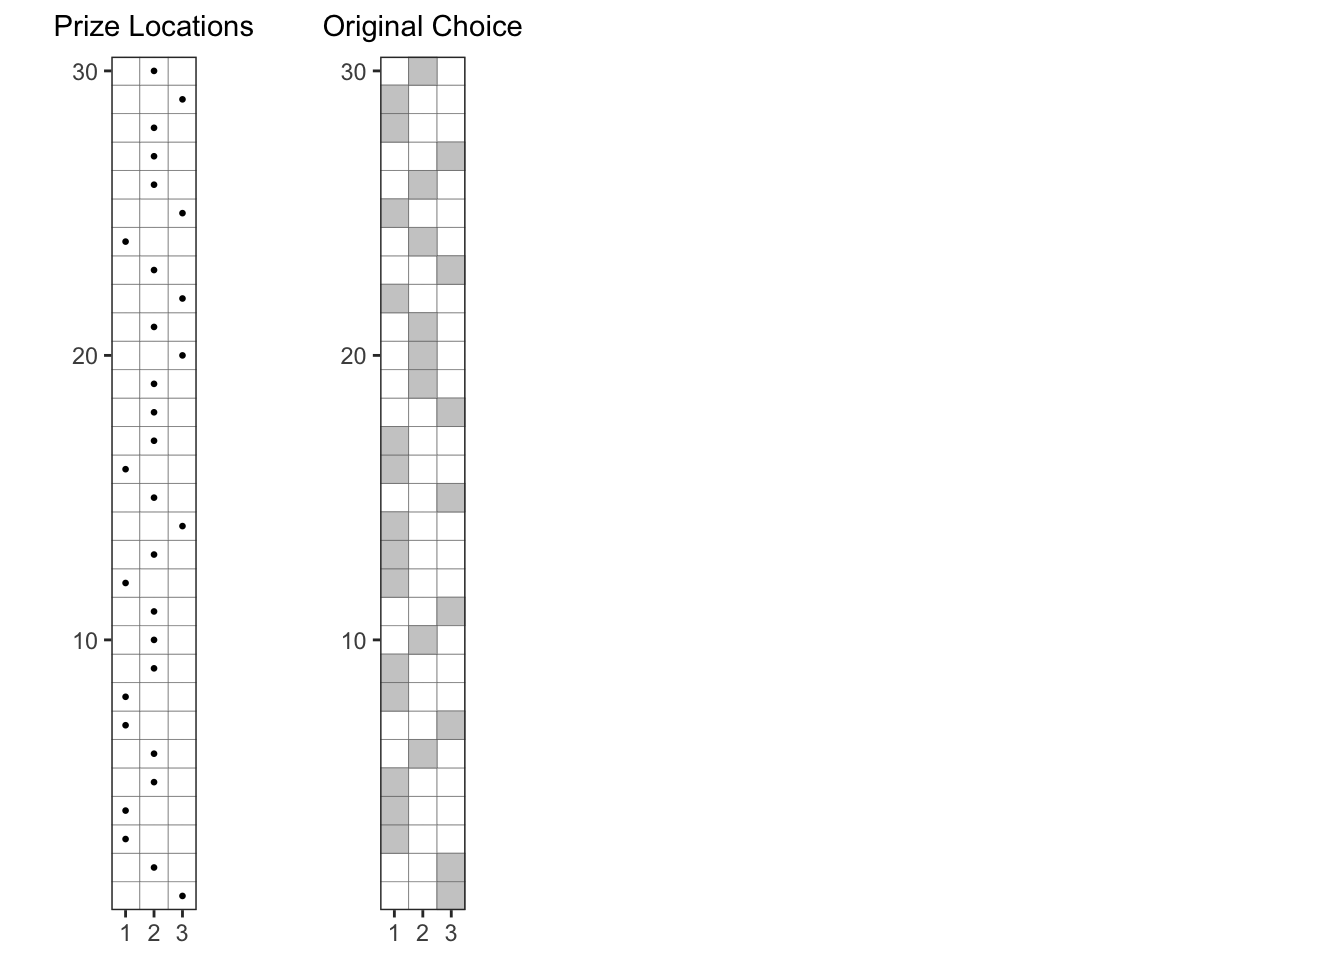
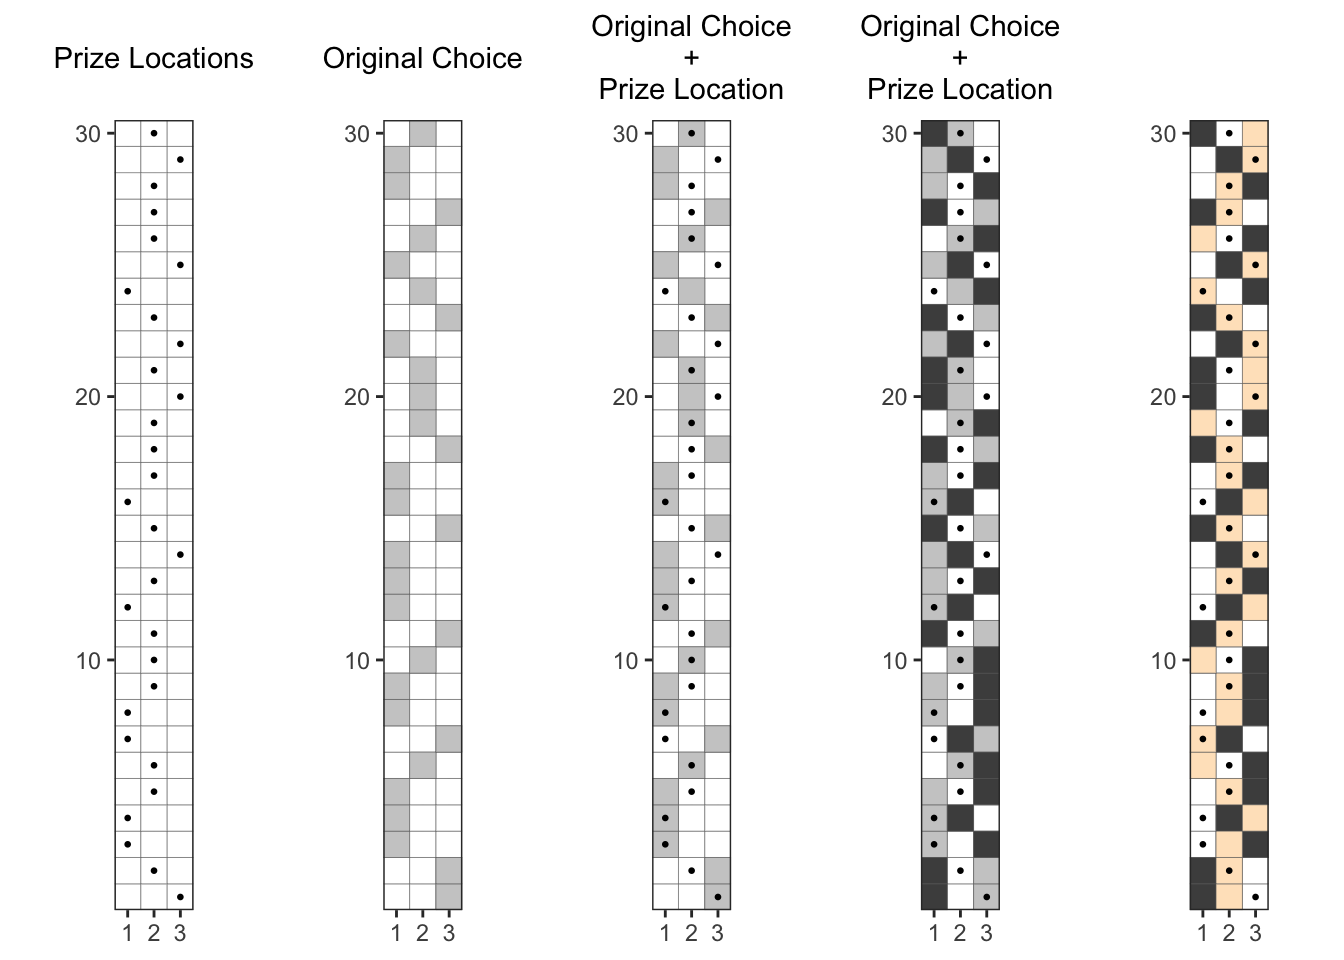
updating the monty-hall post

diff --git a/content/post/2018-11-18-monty-hall-problem.html b/content/post/2018-11-18-monty-hall-problem.html
@@ -24,7 +24,9 @@ math: TRUE
 </div>
 <div id="solution" class="section level3">
 <h3>Solution:</h3>
-<p>Apparently an overwhelming majority of the people think that it doesn’t matter whether you stick to your original choice or change your choice to the remaining door, as both of them are expected to have 33% chance of success originally, or 50% chance of success after you eliminate a door with the goat. But, let us try to arrive at the answer in a more careful way.</p>
+<p>Apparently an overwhelming majority of the people think that it doesn’t matter whether you stick to your original choice or change your choice to the remaining door, as both of them are expected to have 33% chance of success originally, or 50% chance of success after you eliminate a door that doesn’t contain the prize. But, let us try to arrive at the answer in a more careful way.</p>
+<p>We start with a frequentist approach where we repeat the experiment 30 times, and see how many successes we have with each approach.</p>
+<p>We use <code>R programming language</code> to simulate the experiment 30 times, and we use the plots to understand the results. You can <code>see the code by clicking on the code button</code> below.</p>
 <pre class="r"><code>set.seed(2020)
 
 # number of runs
@@ -55,6 +57,9 @@ df_experiment_runs$`Alternate Choice` &lt;- apply(
 
 df_experiment_runs_long &lt;- pivot_longer(df_experiment_runs, cols = starts_with(&quot;Door&quot;), names_to = &quot;Door&quot;)
 df_experiment_runs_long$Door &lt;- gsub(&#39;Door&#39;, &#39;&#39;, df_experiment_runs_long$Door)</code></pre>
+<div id="prize-locations-chosen-at-random" class="section level4">
+<h4>1. Prize locations chosen at random:</h4>
+<p>First, let us denote the Prize Locations in each of the 30 runs by a <strong>dot (.)</strong>, which is chosen randomly among the 3 doors.</p>
 <pre class="r"><code>p0 &lt;- ggplot(df_experiment_runs_long, aes(y = `Run Number`, x = Door)) + 
       geom_tile(fill = &#39;white&#39;, color = &#39;gray40&#39;) + 
       scale_y_continuous(expand = expansion(0,0)) + 
@@ -68,42 +73,54 @@ df_experiment_runs_long$Door &lt;- gsub(&#39;Door&#39;, &#39;&#39;, df_experimen
 p1 &lt;- p0 + geom_point(data = df_experiment_runs, aes(x = `Prize Location`), size = 0.5) + 
         labs(subtitle = &#39;Prize Locations&#39;)
 
-p2 &lt;- p0 + geom_tile(data = df_experiment_runs, aes(x = `First Choice`), fill = &#39;gray80&#39;, color = &#39;gray40&#39;)+ 
+ggarrange(p1, NULL, NULL, NULL, NULL, nrow = 1, align = &#39;h&#39;)</code></pre>
+<p><img src="/post/2018-11-18-monty-hall-problem_files/figure-html/prize-location-1.png" width="672" /></p>
+</div>
+<div id="original-door-choice-chosen-at-random" class="section level4">
+<h4>2. Original door choice chosen at random:</h4>
+<p>Then, let us show the original choice of the doors, denoted by gray square (◽), which are also shown at random.</p>
+<pre class="r"><code>p2 &lt;- p0 + geom_tile(data = df_experiment_runs, aes(x = `First Choice`), fill = &#39;gray80&#39;, color = &#39;gray40&#39;)+ 
         labs(subtitle = &#39;Original Choice&#39;)
-
-p3 &lt;- p2 + geom_point(data = df_experiment_runs, aes(x = `Prize Location`), size = 0.5) + 
+ggarrange(p1, p2, NULL, NULL, NULL, nrow = 1, align = &#39;h&#39;)</code></pre>
+<p><img src="/post/2018-11-18-monty-hall-problem_files/figure-html/original-choice-1.png" width="672" /></p>
+</div>
+<div id="original-choice-combined-with-prize-locations" class="section level4">
+<h4>3. Original choice combined with prize locations:</h4>
+<p>When we combine the above two plots, we can see how many times we choose the door containing a prize indicated by a gray square with a dot in the picture below.</p>
+<p><code>Number of successes with original choice: number of gray squares with a dot</code>.</p>
+<p>In the plot below, we can say about 10 out of 30 trials result in a success where the prize location, is same as the original choice, as expected, with about 0.33 probability.</p>
+<pre class="r"><code>p3 &lt;- p2 + geom_point(data = df_experiment_runs, aes(x = `Prize Location`), size = 0.5) + 
         labs(subtitle = &#39;Original Choice\n+\nPrize Location&#39;)
 
-p4 &lt;- p3 + geom_tile(data = df_experiment_runs, aes(x = `Eliminated Position`), fill = &#39;gray30&#39;, color = &#39;gray40&#39;)
-
-p5 &lt;- p0 + geom_tile(data = df_experiment_runs, aes(x = `Eliminated Position`), fill = &#39;gray30&#39;, color = &#39;gray40&#39;) + 
+ggarrange(p1, p2, p3, NULL, NULL, nrow = 1, align = &#39;h&#39;)</code></pre>
+<p><img src="/post/2018-11-18-monty-hall-problem_files/figure-html/original-choice-with-prize-location-1.png" width="672" /></p>
+</div>
+<div id="eliminating-one-of-the-doors-without-the-prize" class="section level4">
+<h4>4. Eliminating one of the doors without the prize:</h4>
+<p>At this point the host would eliminate one of the doors that don’t contain the prize. We denote this eliminated choice by black square (◾).</p>
+<pre class="r"><code>p4 &lt;- p3 + geom_tile(data = df_experiment_runs, aes(x = `Eliminated Position`), fill = &#39;gray30&#39;, color = &#39;gray40&#39;) + 
+        labs(subtitle = &#39;Original Choice\n+\nEliminated Choice&#39;)
+ggarrange(p1, p2, p3, p4, NULL, nrow = 1, align = &#39;h&#39;) </code></pre>
+<p><img src="/post/2018-11-18-monty-hall-problem_files/figure-html/eliminated-positions-1.png" width="672" /></p>
+</div>
+<div id="considering-the-alternate-choice" class="section level4">
+<h4>5. Considering the alternate choice:</h4>
+<p>After one of the doors, is eliminated we have the option of changing our choice to the alternate door, which is denoted by the orange square in this picture.</p>
+<p><code>Number of successes with alternate choice: number of orange squares with a dot</code>.</p>
+<p>We can see that there about 20 orange squares with a dot in this experiment of 30 runs, which is about twice the probability of success compared to the original choice.</p>
+<pre class="r"><code>p5 &lt;- p0 + geom_tile(data = df_experiment_runs, aes(x = `Eliminated Position`), fill = &#39;gray30&#39;, color = &#39;gray40&#39;) + 
           geom_tile(data = df_experiment_runs, aes(x = `Alternate Choice`), fill = &#39;bisque&#39;, color = &#39;gray40&#39;) + 
-          geom_point(data = df_experiment_runs, aes(x = `Prize Location`), size = 0.5)
+          geom_point(data = df_experiment_runs, aes(x = `Prize Location`), size = 0.5) + 
+          labs(subtitle = &#39;Alternate Chocie\n+\nPrize Location&#39;)
 
-# ggarrange(p1, p2, p3, p4, p5, nrow = 1, align = &#39;h&#39;)</code></pre>
-<div id="first-let-us-denote-the-prize-locations-in-each-of-the-30-runs-by-a-dot-which-is-chosen-randomly-among-the-3-doors." class="section level4">
-<h4>First, let us denote the Prize Locations in each of the 30 runs by a dot, which is chosen randomly among the 3 doors.</h4>
-<pre class="r"><code>ggarrange(p1, NULL, NULL, NULL, NULL, nrow = 1, align = &#39;h&#39;)</code></pre>
-<p><img src="/post/2018-11-18-monty-hall-problem_files/figure-html/unnamed-chunk-3-1.png" width="672" /></p>
+ggarrange(p1, p2, p3, p4, p5, nrow = 1, align = &#39;h&#39;)</code></pre>
+<p><img src="/post/2018-11-18-monty-hall-problem_files/figure-html/alternate-choice-1.png" width="672" /></p>
+<p><code>So, changing our choice after the elimination of one of the doors, improved the sucess probability by about 2x.</code></p>
 </div>
-<div id="then-let-us-show-the-original-choice-of-the-doors-which-are-also-shown-at-random." class="section level4">
-<h4>Then, let us show the original choice of the doors, which are also shown at random.</h4>
-<pre class="r"><code>ggarrange(p1, p2, NULL, NULL, NULL, nrow = 1, align = &#39;h&#39;)</code></pre>
-<p><img src="/post/2018-11-18-monty-hall-problem_files/figure-html/unnamed-chunk-4-1.png" width="672" /></p>
 </div>
-<div id="then-let-us-show-the-original-choice-of-the-doors-which-are-also-shown-at-random.-1" class="section level4">
-<h4>Then, let us show the original choice of the doors, which are also shown at random.</h4>
-<pre class="r"><code>ggarrange(p1, p2, p3, NULL, NULL, nrow = 1, align = &#39;h&#39;)</code></pre>
-<p><img src="/post/2018-11-18-monty-hall-problem_files/figure-html/unnamed-chunk-5-1.png" width="672" /></p>
-</div>
-<div id="then-let-us-show-the-original-choice-of-the-doors-which-are-also-shown-at-random.-2" class="section level4">
-<h4>Then, let us show the original choice of the doors, which are also shown at random.</h4>
-<pre class="r"><code>ggarrange(p1, p2, p3, p4, NULL, nrow = 1, align = &#39;h&#39;)</code></pre>
-<p><img src="/post/2018-11-18-monty-hall-problem_files/figure-html/unnamed-chunk-6-1.png" width="672" /></p>
-</div>
-<div id="then-let-us-show-the-original-choice-of-the-doors-which-are-also-shown-at-random.-3" class="section level4">
-<h4>Then, let us show the original choice of the doors, which are also shown at random.</h4>
-<pre class="r"><code>ggarrange(p1, p2, p3, p4, p5, nrow = 1, align = &#39;h&#39;)</code></pre>
-<p><img src="/post/2018-11-18-monty-hall-problem_files/figure-html/unnamed-chunk-7-1.png" width="672" /></p>
-</div>
+<div id="discussion" class="section level3">
+<h3>Discussion:</h3>
+<p>The above example showed that we have twice the chance of succeeding by changing our initial choice.</p>
+<p>To understand this further, we can imagine our initial choice as one unit, and the remaining two doors as another unit. The probability of having a prize in our initial choice is 0.33. So, the probability that the prize is one of the remaining two doors is 0.67.</p>
+<p><code>When the host eliminates one of the doors that doesn't contain the prize, he is effectively giving us a chance to choose two doors together</code>: one of the doors that doesn’t contain the prize, and the other one which we didn’t choose initially. So, the probability of the prize being in that unit of two doors together is 0.67. This is another way to understand this problem.</p>
 </div>
